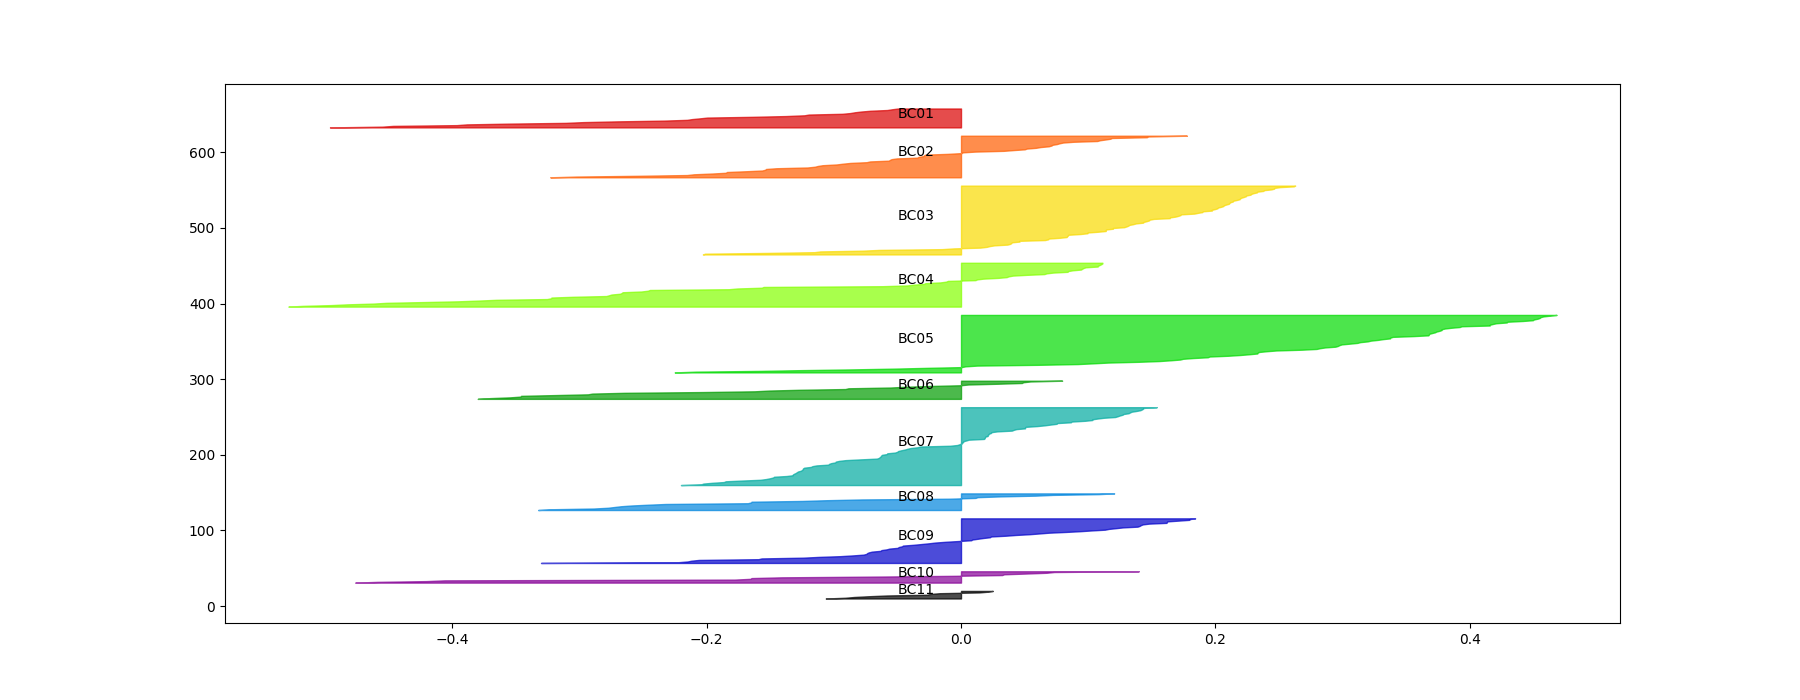
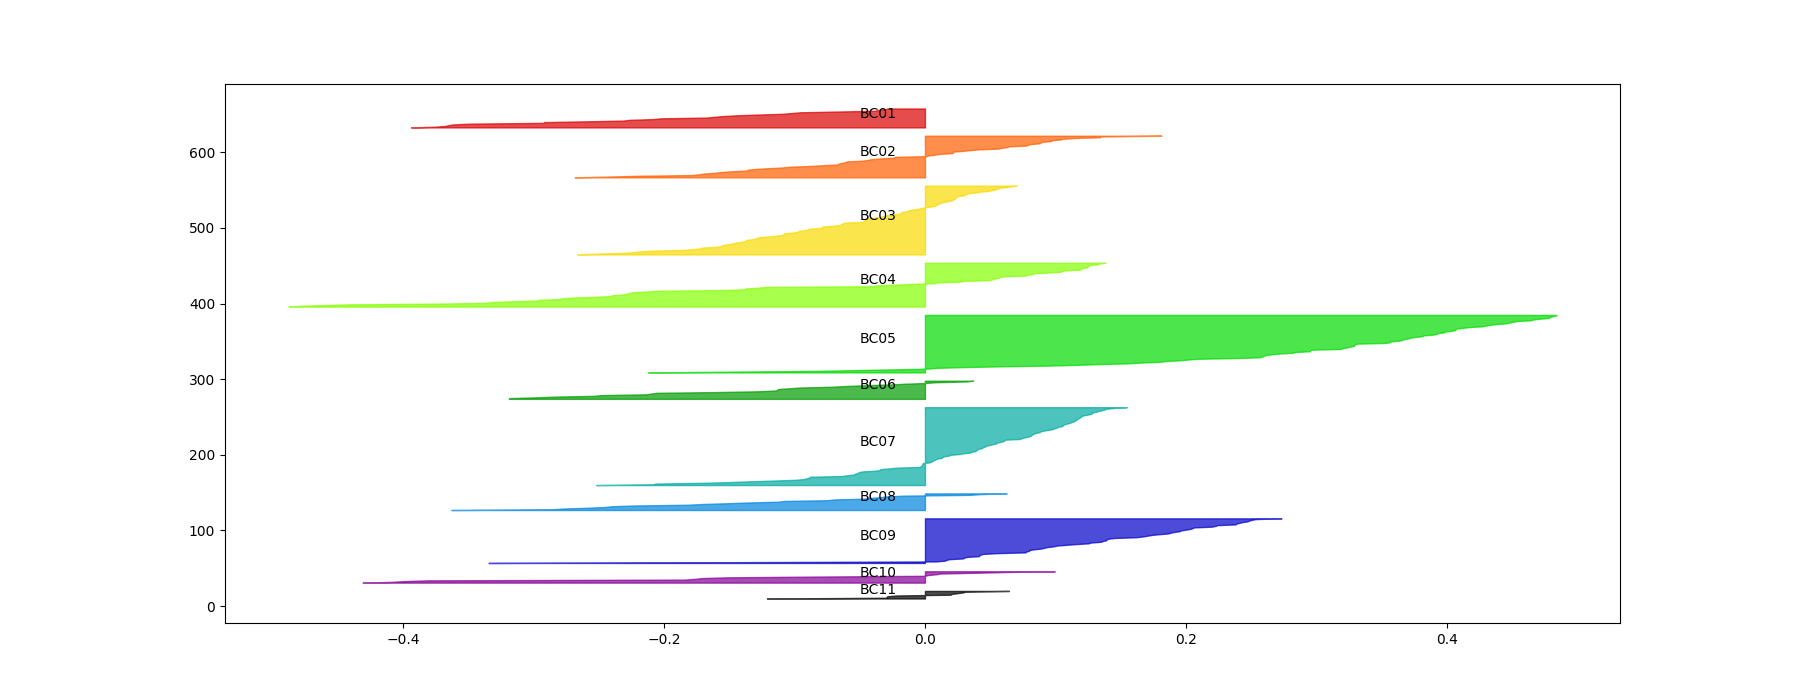
RA: Silh plot with TXP gene selection

diff --git a/p/single-cell/20171130-BCXX/1_silhouette.py b/p/single-cell/20171130-BCXX/1_silhouette.py
@@ -13,6 +13,7 @@ from scipy import stats
 ### INPUT ---- #
 
 input_file_raw_BC = "ORIGINALS/UV/GSE75688_GEO_processed_Breast_Cancer_raw_TPM_matrix.txt"
+input_file_select = "ORIGINALS/gene-selection-txp.txt"
 
 ### OUTPUT --- #
 
@@ -20,65 +21,91 @@ output_file_plot = "OUTPUT/1_silhouette_z={}.png" #.format(zscore)
 
 ### MEAT ----- #
 
-#X = np.genfromtxt("test.txt", names=True, delimiter='\t', dtype=None)
+# Load the raw data
 X = np.genfromtxt(input_file_raw_BC, names=True, delimiter='\t', dtype=None)
 
-# Column names from the raw file header
-col_names = list(X.dtype.names)
-#print(col_names[0:20])
+# Feature tags from the raw file 
+header = list(X.dtype.names)
+#print(header[0:20])
+
+# Filter the BCXX(LN)_XX columns
+p = re.compile(r"BC[0-9]+.*_[0-9]+", re.IGNORECASE)
+header = [n for n in header if p.match(n)]
 
 # The gene type of each gene
 gene_type = [t.decode("utf-8") for t in X['gene_type']]
 
+# The ENSGXXXXXXXXXXX gene id of each gene
+gene_id = [t.decode("utf-8")[0:15] for t in X['gene_id']]
+
 # Histogram of gene types
-gene_type_freq = set((t, len([g for g in gene_type if (g == t)])) for t in set(gene_type))
-print("Gene types:", set(gene_type_freq))
-# {('misc_RNA', 2034), ('TR_V_gene', 97), ('rRNA', 527), ('IG_V_pseudogene', 187), ('Mt_tRNA', 22), ('sense_overlapping', 202), ('IG_J_pseudogene', 3), ('pseudogene', 13931), ('SPIKE_IN', 3), ('sense_intronic', 742), ('TR_C_gene', 5), ('IG_D_gene', 37), ('TR_V_pseudogene', 27), ('miRNA', 3055), ('TR_J_pseudogene', 4), ('TR_D_gene', 3), ('snRNA', 1916), ('polymorphic_pseudogene', 45), ('IG_V_gene', 138), ('TR_J_gene', 74), ('lincRNA', 7114), ('antisense', 5276), ('IG_C_pseudogene', 9), ('snoRNA', 1457), ('3prime_overlapping_ncrna', 21), ('IG_J_gene', 18), ('protein_coding', 20345), ('IG_C_gene', 14), ('processed_transcript', 515), ('ERCC', 92), ('Mt_rRNA', 2)}
+#gene_type_freq = set((t, len([g for g in gene_type if (g == t)])) for t in set(gene_type))
+#print("Gene types:", set(gene_type_freq))
+## {('misc_RNA', 2034), ('TR_V_gene', 97), ('rRNA', 527), ('IG_V_pseudogene', 187), ('Mt_tRNA', 22), ('sense_overlapping', 202), ('IG_J_pseudogene', 3), ('pseudogene', 13931), ('SPIKE_IN', 3), ('sense_intronic', 742), ('TR_C_gene', 5), ('IG_D_gene', 37), ('TR_V_pseudogene', 27), ('miRNA', 3055), ('TR_J_pseudogene', 4), ('TR_D_gene', 3), ('snRNA', 1916), ('polymorphic_pseudogene', 45), ('IG_V_gene', 138), ('TR_J_gene', 74), ('lincRNA', 7114), ('antisense', 5276), ('IG_C_pseudogene', 9), ('snoRNA', 1457), ('3prime_overlapping_ncrna', 21), ('IG_J_gene', 18), ('protein_coding', 20345), ('IG_C_gene', 14), ('processed_transcript', 515), ('ERCC', 92), ('Mt_rRNA', 2)}
 
-# Filter the BCXX(LN)_XX columns
-p = re.compile(r"BC[0-9]+.*_[0-9]+", re.IGNORECASE)
-col_names = [n for n in col_names if p.match(n)]
+# Make a numpy matrix: (metadata + samples) x genes
+X = np.asarray(list(X[n] for n in header))
 
-# Make a numpy matrix: genes x (metadata + samples)
-X = np.asmatrix(list(X[n] for n in col_names))
+# Along which axis/dimension of the data are the samples / the genes
+(axis_sample, axis_gene) = (0, 1)
 
-# Omit genes that are not "real genes"
-#
-# Which genes to keep
-T = {"protein_coding"}
-omit = [j for (j, t) in enumerate(gene_type) if not (t in T)]
-#
-X = np.delete(X, omit, 1)
-#
-print("Omitted {} non protein coding genes".format(len(omit)))
+# Cluster membership of each sample (BCXX)
+sample2cluster = [n[0:4] for n in header]
 
-# Omit genes that are not expressed
-#
-# Standard deviation over samples for each gene
-std = np.std(X, axis=0).reshape(-1, 1)
-# Which genes to omit?
-omit = [j for j in range(0, X.shape[1]) if (std[j] == 0)]
-#
-X = np.delete(X, omit, 1)
-#
-print("Omitted {} non expressed genes".format(len(omit)))
+if False :
+	# Omit the BC01 cluster
+	I = [i for (i, c) in enumerate(sample2cluster) if (c == "BC01")]
+	X = np.delete(X, I, 0)
+	sample2cluster = [c for (i, c) in enumerate(sample2cluster) if (i not in I)]
+	del header # invalidate inconsitent variable
+
+# Omit irrelevant genes 
+
+if False : 
+	# Keep only genes of this type:
+	T = {"protein_coding"}
+	
+	# Which genes to omit?
+	J = [j for (j, t) in enumerate(gene_type) if (t not in T)]
+	X = np.delete(X, J, axis_gene)
+	print("Omitted {} genes that are not {}".format(len(J), T))
+
+if True :
+	# Use the selection file to filter relevant genes
+	Y = np.genfromtxt(input_file_select, names=True, delimiter='\t', dtype=None)
+	
+	# 15 is the length of the ENSGXXXXXXXXXXX gene_id code
+	Y = set([t.decode("utf-8")[0:15] for t in Y['gene_id']])
+	
+	# Which genes to omit?
+	J = [j for (j, i) in enumerate(gene_id) if not (i in Y)]
+	X = np.delete(X, J, axis_gene)
+	print("Omitted {} genes not listed in {}".format(len(J), input_file_select))
+
+if True :
+	# Omit genes that are not expressed
+	J = (np.std(X, axis=axis_sample) == 0)
+	X = X[:, np.invert(J)]
+	print("Omitted {} non-expressed genes".format(sum(J)))
 
 # Size of the remaining dataset
-nsamples = X.shape[0]
-ngenes   = X.shape[1]
+(n_samples, n_genes) = (X.shape[axis_sample], X.shape[axis_gene])
 #
-print("Got data with {} samples and {} nontrivial genes".format(nsamples, ngenes))
+print("Got data with {} samples and {} nontrivial genes".format(n_samples, n_genes))
 
-# Sanity-check
-assert(len(col_names) == nsamples)
-assert(nsamples), "Didn't get any samples"
-assert(ngenes  ), "Didn't get any features"
+# Sanity check
+assert(n_samples), "Didn't get any samples"
+assert(n_genes  ), "Didn't get any genes"
 
 # Silhouette-plot routine
-def silhouette(X, C) :
+# X = data with samples in rows
+# C = sample cluster labels
+def plot_silhouette(X, C) :
 
 	# PLOTTING CODE ADAPTED FROM
 	# http://scikit-learn.org/stable/auto_examples/cluster/plot_kmeans_silhouette_analysis.html
+	
+	assert(len(C) == X.shape[0]), "C-X dimensions inconsistent"
 	
 	from sklearn.metrics import silhouette_samples
 	
@@ -105,9 +132,10 @@ def silhouette(X, C) :
 		y_upper = y_lower + size_cluster_i
 
 		color = cm.spectral(float(i) / n_clusters)
-		ax1.fill_betweenx(np.arange(y_lower, y_upper),
-							0, cluster_silh,
-							facecolor=color, edgecolor=color, alpha=0.7)
+		ax1.fill_betweenx(
+			np.arange(y_lower, y_upper),
+			0, cluster_silh,
+			facecolor=color, edgecolor=color, alpha=0.7)
 
 		# Label the silhouette plots with their cluster numbers at the middle
 		ax1.text(-0.05, y_lower + 0.5 * size_cluster_i, c)
@@ -115,17 +143,17 @@ def silhouette(X, C) :
 		# Compute the new y_lower for next plot
 		y_lower = y_upper + 10  # 10 for the 0 samples
 
-# Cluster membership of each sample (BCXX)
-sample2cluster = [n[0:4] for n in col_names]
 
-# With and without the z-score transform gene-wise
+# With and without gene-wise the z-score transform
 for zscore in [True, False] :
-	# z-score- / un- transformed data
-	Y = (stats.mstats.zscore(X, axis=0) if zscore else X);
+	
+	# Get the z-score-transformed or the original data
+	# If transform then gene-wise, i.e. over the sample axis/dimension
+	Y = (stats.mstats.zscore(X, axis=axis_sample) if zscore else X);
 	
 	# Do the silhouette plot
 	plt.clf()
-	silhouette(Y, sample2cluster)
+	plot_silhouette(Y, sample2cluster)
 	
 	# Save figure
 	filename = output_file_plot.format(zscore)
